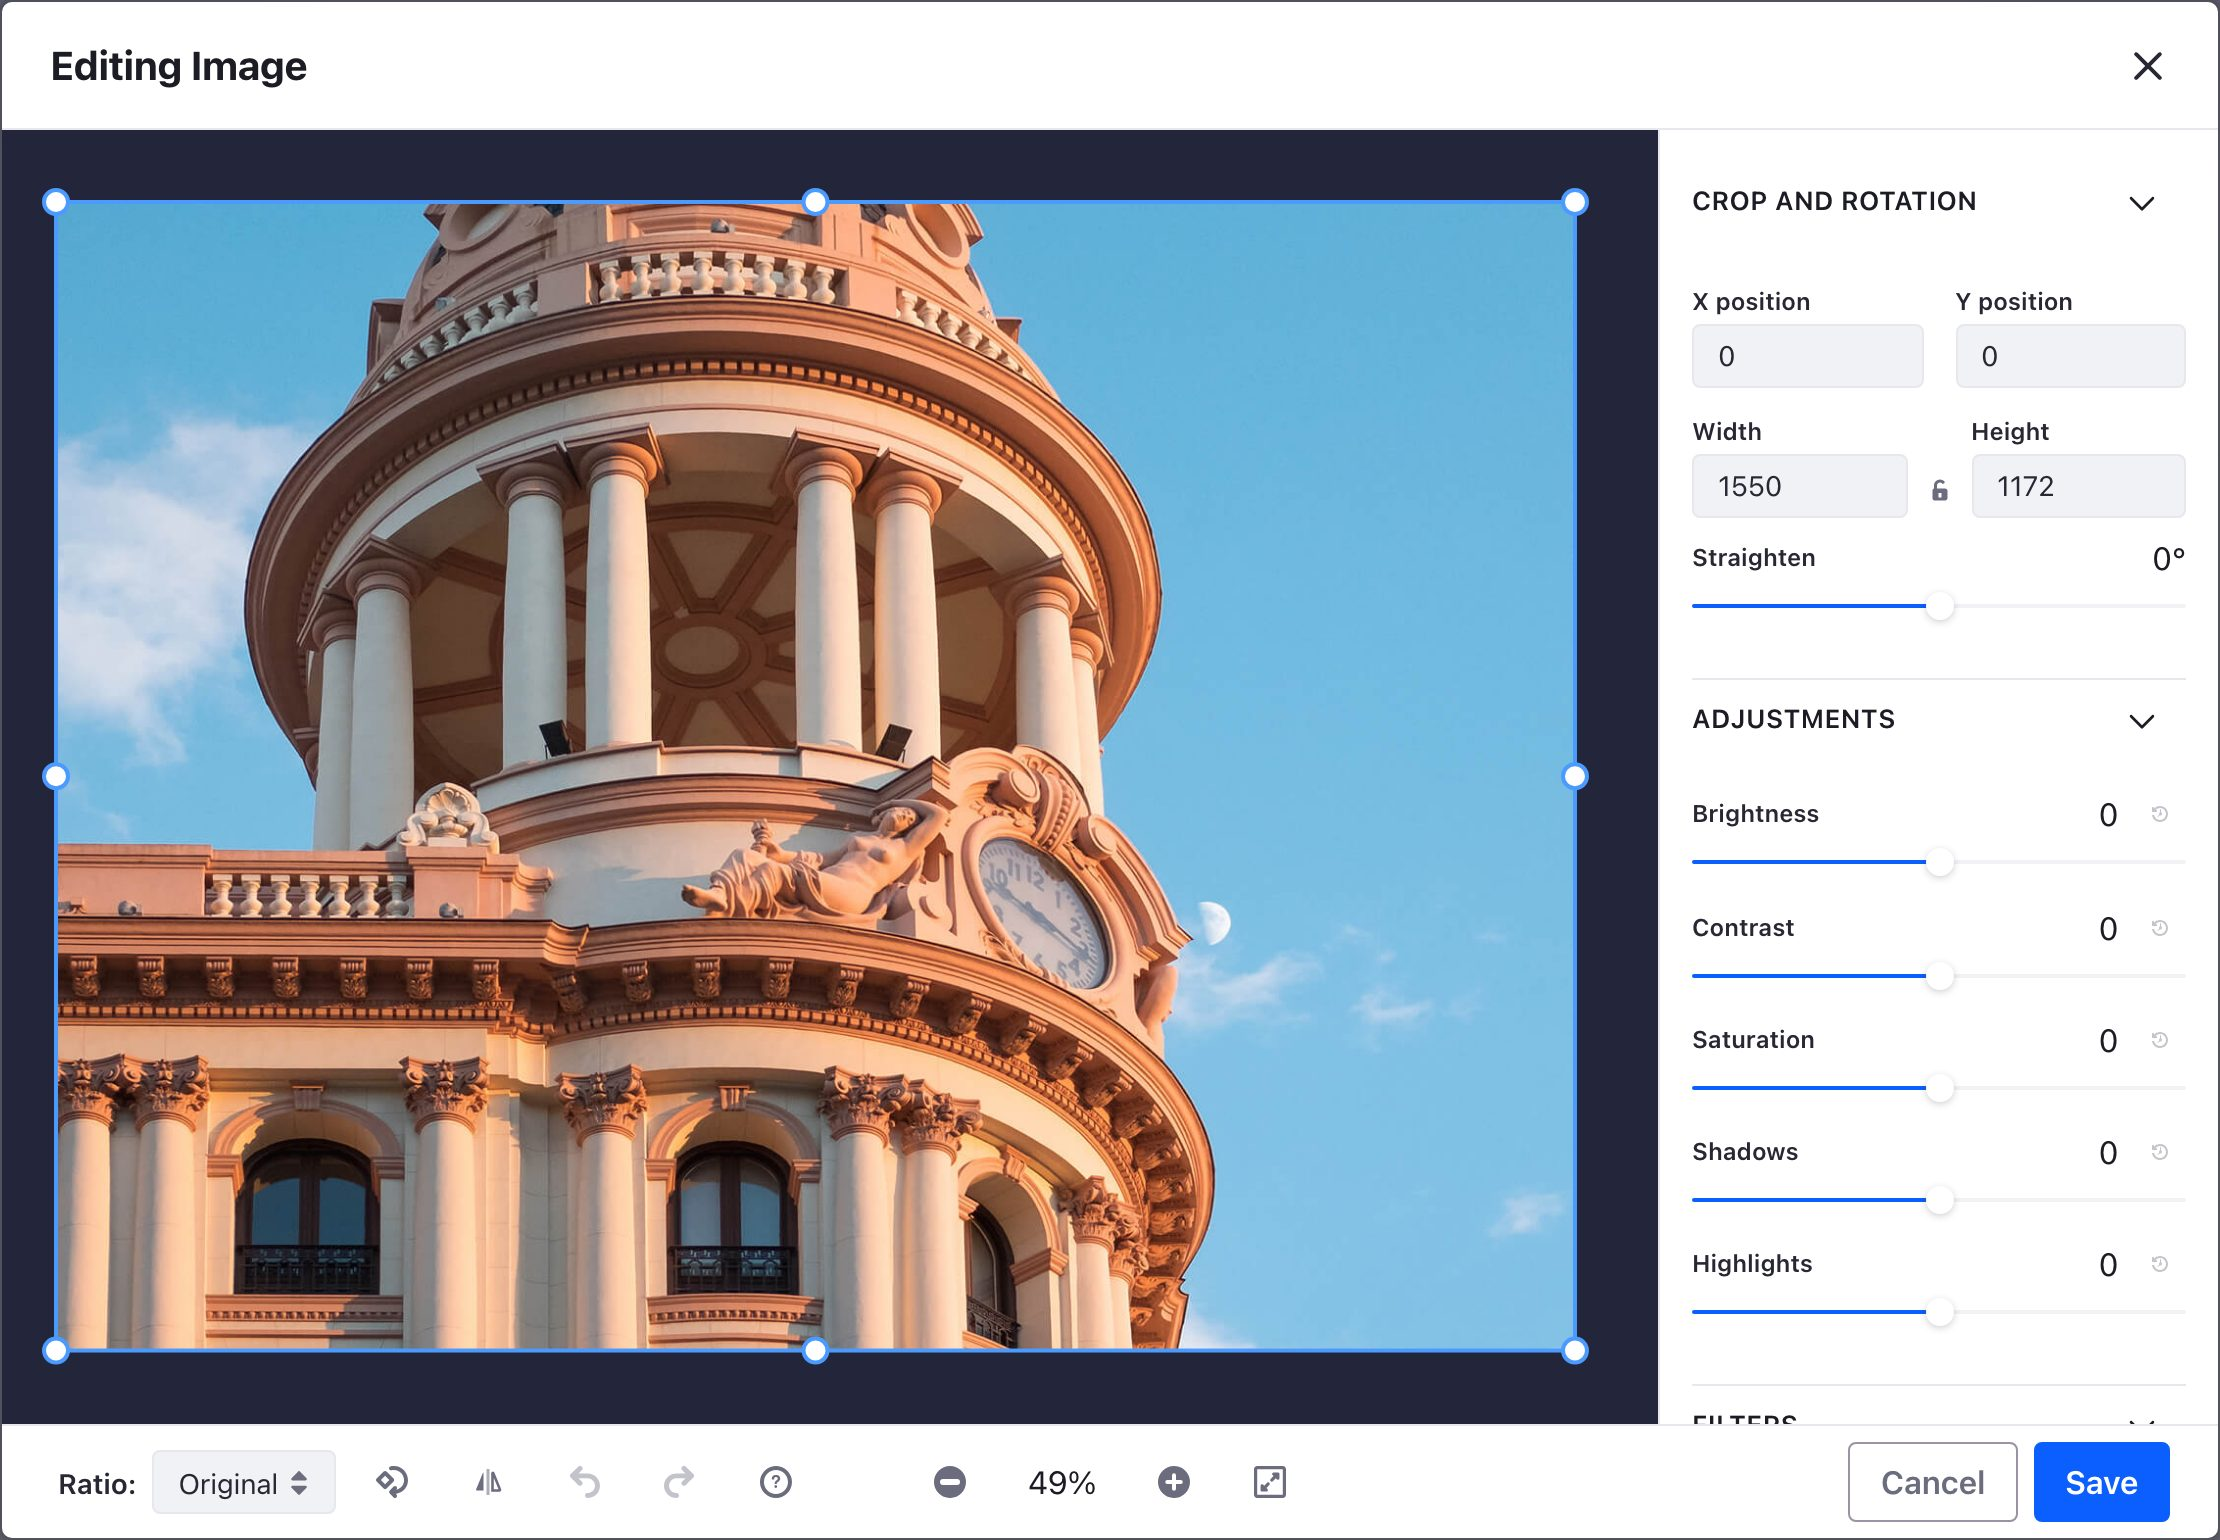
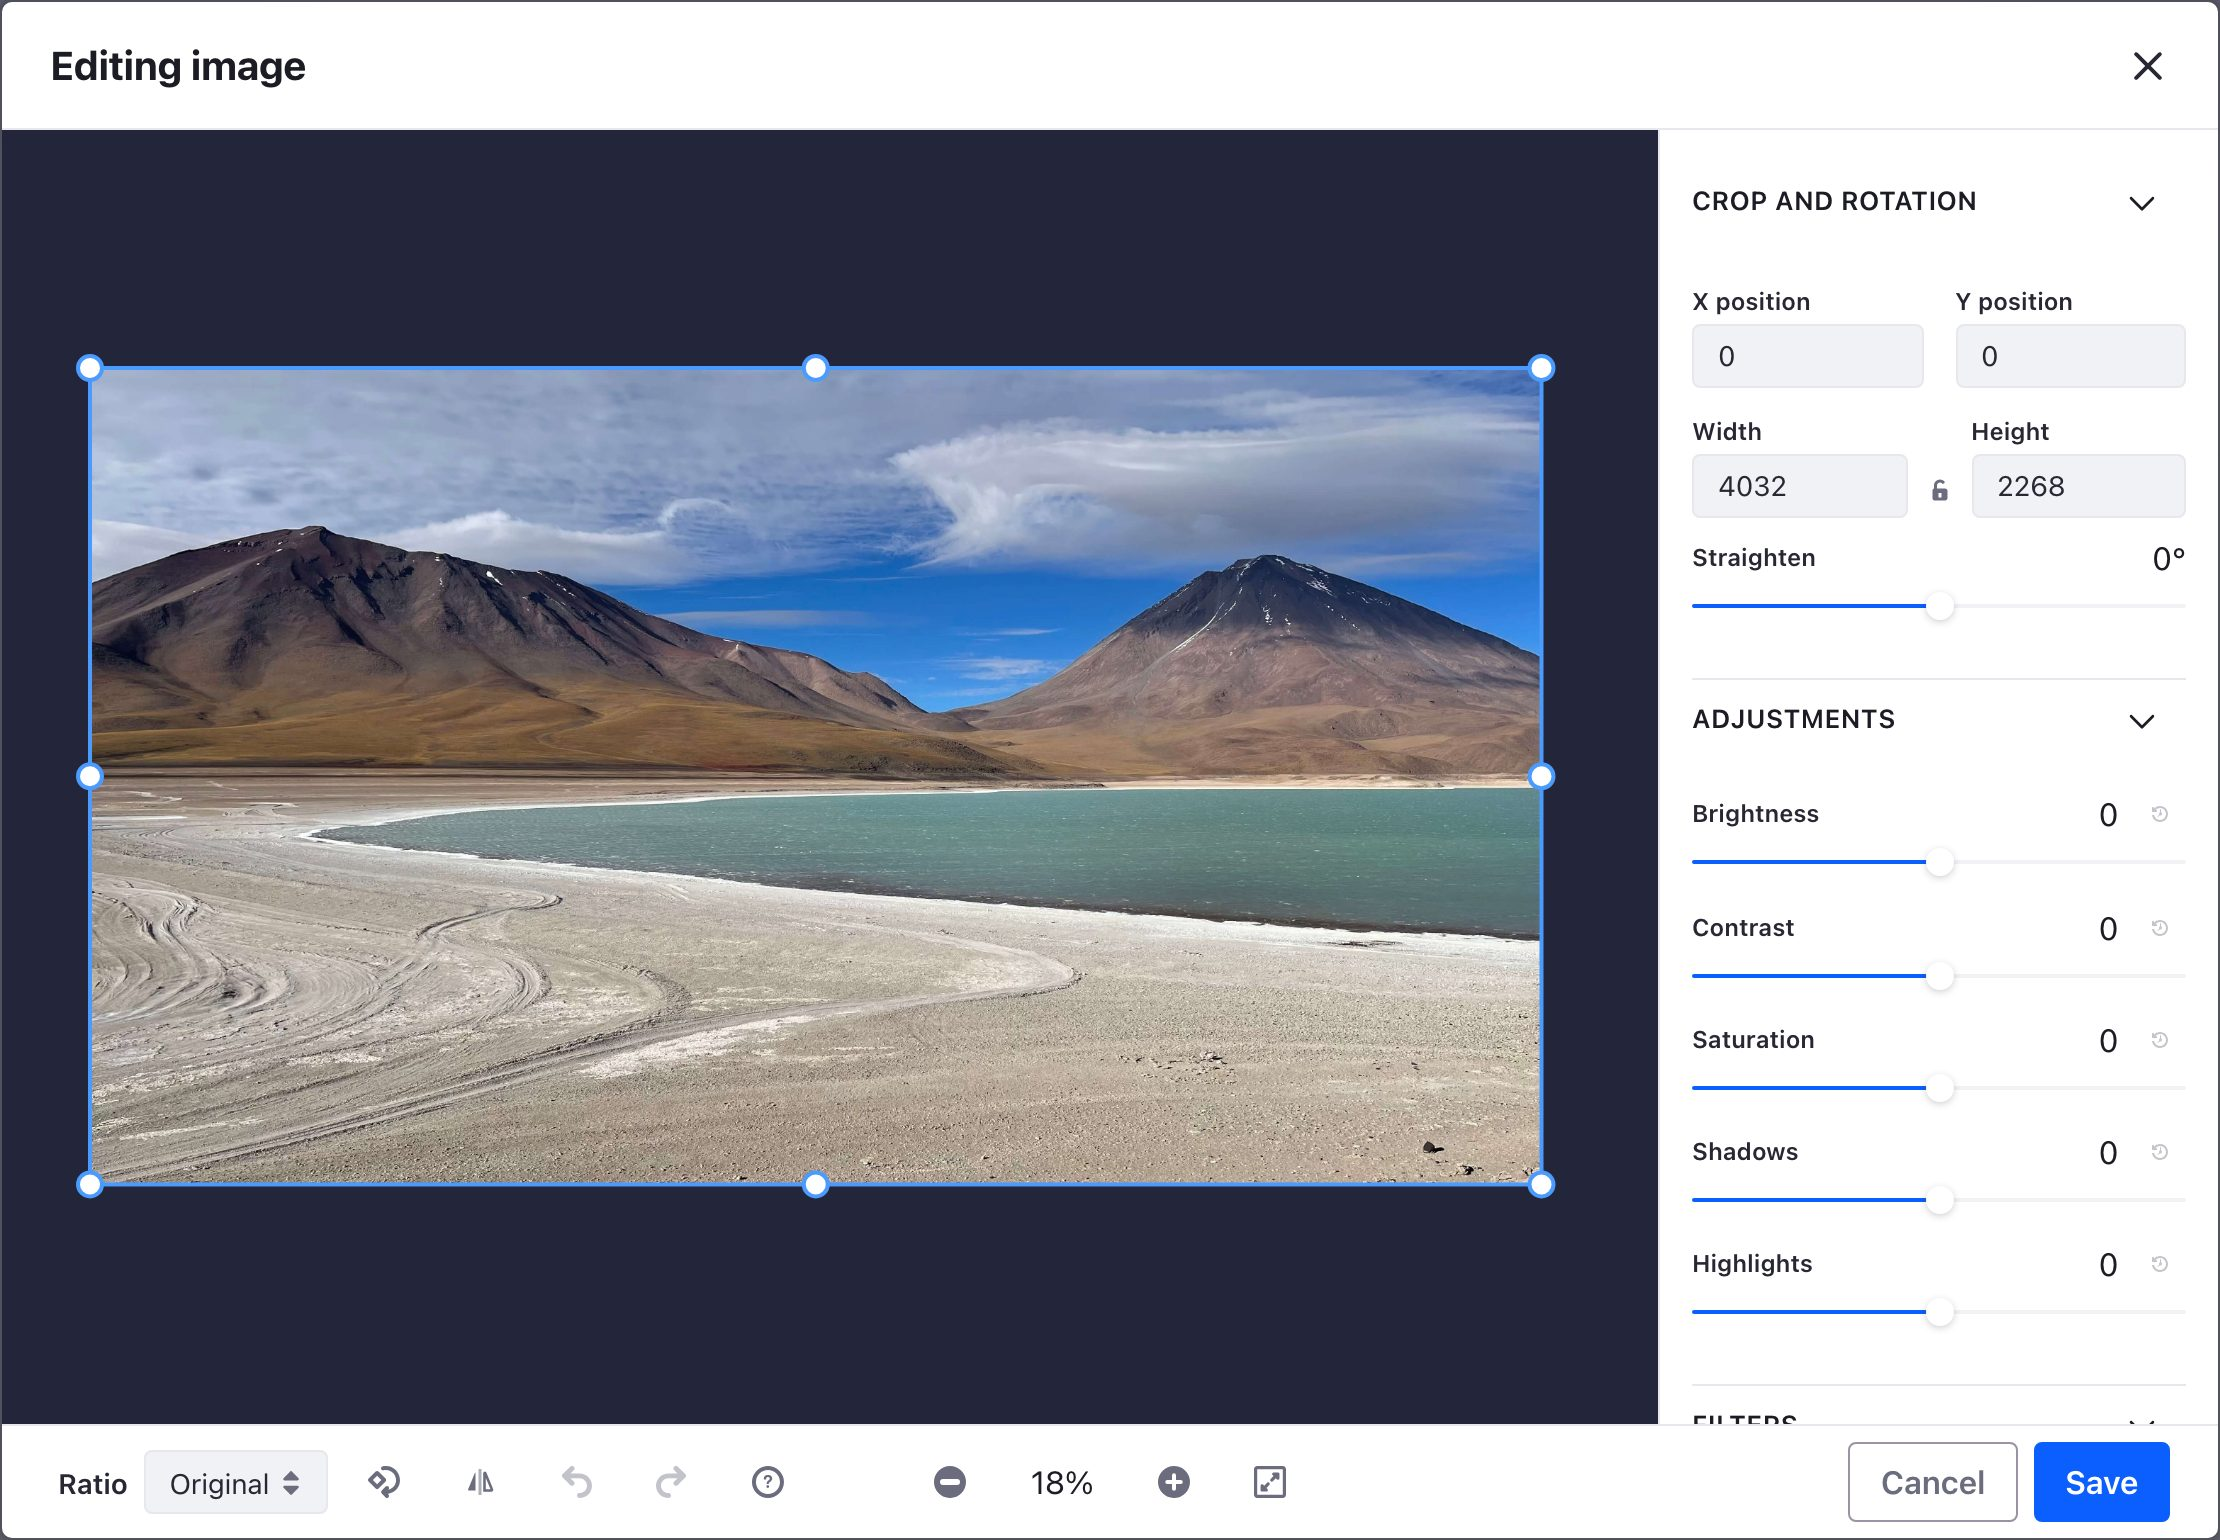
Regenerate every website capture on the Laguna Verde sample

diff --git a/website/index.html b/website/index.html
@@ -175,7 +175,7 @@
 									width="2380"
 									height="1620"
 									style="max-width: min(100%, 1190px)"
-								alt="The editor open on a photograph of a domed building. The crop marquee covers the image, and the sidebar shows the Crop and rotation, Adjustments and Filters sections."
+								alt="The editor open on a photograph of a green mountain lagoon. The crop marquee covers the image, and the sidebar shows the Crop and rotation, Adjustments and Filters sections."
 							/>
 						</div>
 						<figcaption>
@@ -792,7 +792,7 @@
 									width="1816"
 									height="1374"
 									style="max-width: min(100%, 908px)"
-								alt="The stage with five annotations: a blue rectangle, a star emoji selected with resize and rotate handles, a blue arrow pointing at a pixelated redaction over the clock, and the words Golden hour in white."
+								alt="The stage with five annotations: a blue rectangle, a star emoji selected with resize and rotate handles, a blue arrow pointing at a pixelated redaction on the salt flat, and the words Laguna Verde in white."
 							/>
 							<figcaption>
 								Five annotations on one stage, each a node of its own.
@@ -871,7 +871,7 @@
 								width="1816"
 								height="1374"
 								style="max-width: min(100%, 908px)"
-								alt="The stage with three drawn annotations: a freehand wave along the balustrade, a check mark drawn with the pen, and a rectangle in the wobbly hand-drawn style."
+								alt="The stage with three drawn annotations: a freehand wave along the shoreline, a check mark drawn with the pen, and a rectangle in the wobbly hand-drawn style."
 							/>
 							<figcaption>
 								A freehand wave, a pen check mark, and the hand-drawn
@@ -957,9 +957,9 @@
 							<img
 								class="window"
 								src="screenshots/redaction.jpg"
-									width="778"
-									height="550"
-									style="max-width: min(100%, 389px)"
+									width="762"
+									height="496"
+									style="max-width: min(100%, 381px)"
 								alt="Close-up of a pixelated redaction over a black and white photograph: the mosaic blocks are grey, matching the Noir filter applied to the rest of the image."
 							/>
 						</figure>
@@ -1152,9 +1152,9 @@
 								<img
 									class="window"
 									src="screenshots/selection.png"
-									width="412"
-									height="412"
-									style="max-width: min(100%, 206px)"
+									width="340"
+									height="340"
+									style="max-width: min(100%, 170px)"
 									alt="A star emoji with a single thin selection ring and square resize handles."
 								/>
 								<figcaption>Selected with the pointer</figcaption>
@@ -1163,9 +1163,9 @@
 								<img
 									class="window"
 									src="screenshots/focus.png"
-									width="412"
-									height="412"
-									style="max-width: min(100%, 206px)"
+									width="340"
+									height="340"
+									style="max-width: min(100%, 170px)"
 									alt="The same star emoji with a thicker two-tone focus ring, white inside and blue outside."
 								/>
 								<figcaption>Reached with the keyboard</figcaption>
@@ -1200,9 +1200,9 @@
 								<img
 									class="window"
 									src="screenshots/target-fit.jpg"
-									width="372"
-									height="372"
-									style="max-width: min(100%, 186px)"
+									width="370"
+									height="370"
+									style="max-width: min(100%, 185px)"
 									alt="A tiny blue dot against the sky, surrounded by a dashed square marking the area that can be clicked."
 								/>
 								<figcaption>
@@ -1291,7 +1291,7 @@
 							class="window"
 							src="screenshots/shortcuts.png"
 									width="1192"
-									height="968"
+									height="1184"
 									style="margin: 0 auto; max-width: min(100%, 596px)"
 							alt="The editor's own keyboard shortcuts dialog, listing the arrow keys, Shift and Alt modifiers, the zoom keys with 0 to fit, 1 for actual size and 2 for the crop area, undo, redo and Escape."
 						/>
